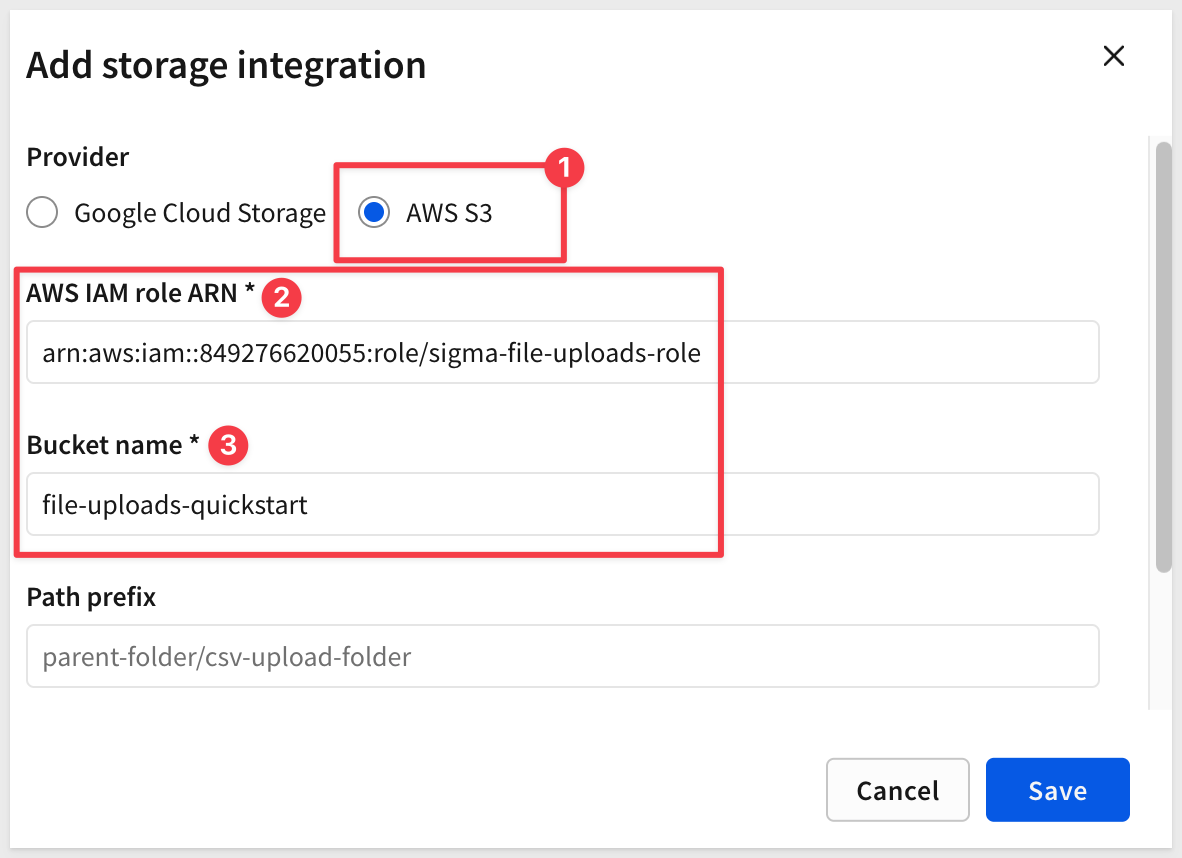
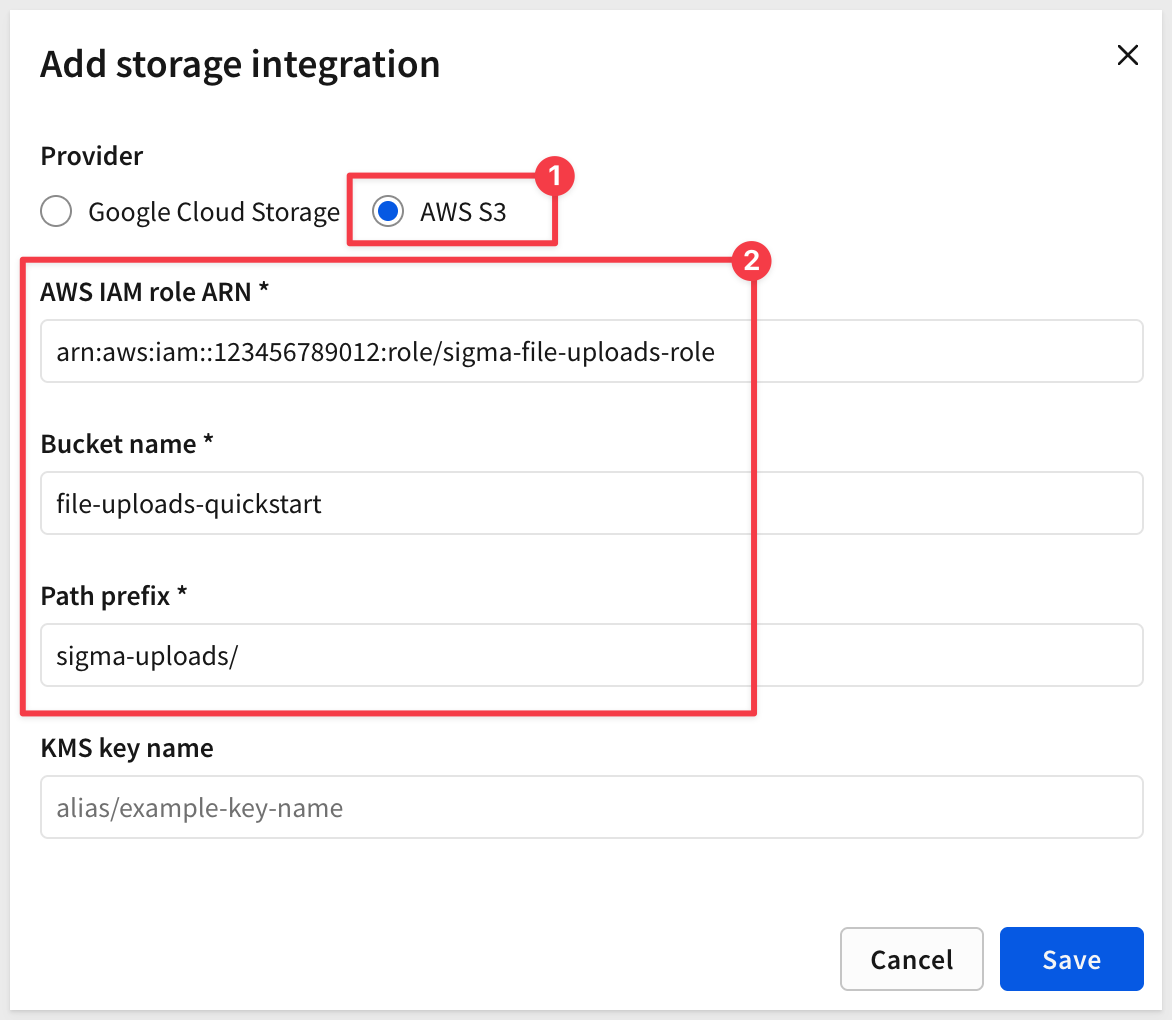
Update Multi-Modal File Analysis QS for current Sigma storage integration UI
- Path prefix field is now required (not optional)
- Rename field labels to match current UI: AWS IAM role ARN, Path prefix, KMS key name (new)
- Fix {{LLM}} control variable casing to match Control ID (Llm)
- Fix model ID inconsistency in troubleshooting section (claude-sonnet-4-5)
- Grammar and clarity fixes: punctuation, voice, sentence fragments
- Delete 12 orphaned fupl_* assets

Closes #639

diff --git a/site/sigmaguides/src/aiapps_file_uploads/aiappsfile_uploads.md b/site/sigmaguides/src/aiapps_file_uploads/aiappsfile_uploads.md
@@ -6,7 +6,7 @@ environments: web
 status: Published
 feedback link: https://github.com/sigmacomputing/sigmaquickstarts/issues
 tags: Default
-lastUpdated: 2026-02-05
+lastUpdated: 2026-07-15
 
 # Multi-Modal File Analysis with AI
 
@@ -152,7 +152,7 @@ Click `Next`.
 On the permissions page:
 - Search for and select `sigma-file-uploads-quickstart-policy` (the policy you just created)
 
-<img src="assets/fupl_06.png" width="800"/>
+<!-- <img src="assets/fupl_06.png" width="800"/> -->
 
 Click `Next`, then:
 - **Role name**: `sigma-file-uploads-role`
@@ -209,22 +209,23 @@ Log into Sigma as Administrator and navigate to `Administration` > `Account` > `
 Configure the external storage integration:
 
 - **Provider**: Select `AWS S3`
-- **AWS customer IAM role ARN**: Enter the Role ARN from your IAM role (e.g., `arn:aws:iam::123456789012:role/sigma-file-uploads-role`)
+- **AWS IAM role ARN**: Enter the Role ARN from your IAM role (e.g., `arn:aws:iam::123456789012:role/sigma-file-uploads-role`)
 - **Bucket name**: Enter your S3 bucket name (e.g., `file-uploads-quickstart`)
-- **Prefix**: (Optional) Enter a folder path if you want to isolate Sigma uploads (e.g., `sigma-uploads/`)
+- **Path prefix**: Enter a folder path to isolate Sigma uploads (e.g., `sigma-uploads/`)
+- **KMS key name**: (Optional) Enter your KMS key alias if the bucket uses server-side encryption (e.g., `alias/example-key-name`)
 
 <img src="assets/fupl_09.png" width="500"/>
 
 After entering these details, Sigma will display three values:
 - **AWS IAM user ARN**: Sigma's IAM user identity (copy this)
 - **AWS external role ARN**: Sigma's external ID for cross-account access (copy this)
-- **AWS customer IAM role ARN**: Your role ARN echoed back (already have this)
+- **AWS IAM role ARN**: Your role ARN echoed back (already have this)
 
 <aside class="negative">
 <strong>IMPORTANT:</strong><br> Copy the first two values (AWS IAM user ARN and AWS external role ARN) displayed by Sigma - you'll need them in the next step to update your IAM role's trust policy. The third value is just your role ARN being displayed back to you.
 </aside>
 
-<img src="assets/fupl_10.png" width="500"/>
+<img src="assets/fupl_10.png" width="800"/>
 
 ### Update IAM Role Trust Policy
 
@@ -285,7 +286,7 @@ For additional details, see [Configure storage integration for file upload colum
 ## Configure Snowflake Cortex AI
 Duration: 5
 
-Before setting up storage integration, you need to ensure Snowflake Cortex AI is properly configured with a vision-capable model.
+Before building the app in Sigma, ensure Snowflake Cortex AI is properly configured with a vision-capable model.
 
 ### Enable Cross-Region Inference
 
@@ -566,9 +567,9 @@ Delete the pre-populated rows:
 ### Add Row ID Column
 Add a Row ID column to uniquely identify each row in the `My files` table.
 
-Click the `+` next to the last column, choose the Sigma provided `Row ID` column type.
+Click the `+` next to the last column, choose the Sigma-provided `Row ID` column type.
 
-Rename the column to `RowID`
+Rename the column to `RowID`.
 
 <aside class="positive">
 <strong>NOTE:</strong><br> The FileID column will be populated automatically when files are uploaded via the action sequence you'll configure in a later section. It stores the actual filename in S3 (with Sigma's prefix and UUID).
@@ -634,9 +635,9 @@ Set the image size to `25 x 48` and enable `Preserve aspect ratio`:
 
 <img src="assets/fupl_24.png" width="350"/>
 
-We can test that the trash icon appears by hitting `Enter` on the `Admin` > `My files` input table.
+Test that the trash icon appears by hitting `Enter` on the `Admin` > `My files` input table.
 
-4. With the `Delete` column selected. click the **Actions** tab in the properties panel
+4. With the `Delete` column selected, click the **Actions** tab in the properties panel
 5. Click `Add action` and select `Delete row(s)`
 6. Configure the action:
    - **In**: `Your files with insight (Main)`
@@ -881,7 +882,7 @@ with mycte as
 listagg( concat('File name: ', "Name", ', Detail Description: ', "AI Detailed Description", ' ; \n' )) all_results
 from sigma_element('Your files with insight'))
 select iff({{CollectiveInquiry}} is not null,
-ai_complete({{LLM}}, concat('Answer the following inquiry', {{CollectiveInquiry}}, ' from the following: ', all_results)), 'Ask optional question above') multimodal_results from mycte
+ai_complete({{Llm}}, concat('Answer the following inquiry', {{CollectiveInquiry}}, ' from the following: ', all_results)), 'Ask optional question above') multimodal_results from mycte
 ```
 
 <aside class="positive">
@@ -889,7 +890,7 @@ ai_complete({{LLM}}, concat('Answer the following inquiry', {{CollectiveInquiry}
 • <code>sigma_element('Your files with insight')</code> - References your child table containing all uploaded files<br>
 • <code>listagg(concat(...))</code> - Concatenates all rows into one long string with file names and descriptions<br>
 • <code>{{CollectiveInquiry}}</code> - Parameter from the text input control (the user's question)<br>
-• <code>{{LLM}}</code> - Parameter from the Llm control (which AI model to use)<br>
+• <code>{{Llm}}</code> - Parameter from the Llm control (which AI model to use)<br>
 • <code>ai_complete()</code> - Snowflake Cortex function that sends the prompt to the AI and returns the answer
 </aside>
 
@@ -937,14 +938,14 @@ The application will:
 2. Automatically generate an AI Detailed Description and AI Summary
 3. Display the file and descriptions in the `Your files with insight` table
 
-<img src="assets/uploadfile.gif">
+<img src="assets/uploadfile.gif" width="800"/>
 
 ### Test Multi-Modal Inquiry
 After uploading multiple files:
 
 1. Type a question in the `CollectiveInquiry` field and press `Enter`.
 
-Examples questions:
+Example questions:
    - "What is the common theme in my files?"
    - "Compare and contrast my files"
    - "Summarize the key information across all documents"
@@ -961,7 +962,7 @@ You should now have a working multi-modal AI application that:
 - Generates intelligent descriptions of file content
 - Answers natural language questions across multiple files
 - Provides a clean, user-friendly interface for unstructured data analysis
-- Ready for final clean-up and other usability enhancements to suit
+- Ready for final clean-up and usability enhancements
 
 
 ![Footer](assets/sigma_footer.png)
@@ -1045,7 +1046,7 @@ GRANT USAGE, READ, WRITE ON STAGE QUICKSTARTS.FILE_UPLOADS.FILE_UPLOADS TO ROLE 
 ```copy-code
 USE ROLE your_sigma_role;
 SELECT SNOWFLAKE.CORTEX.AI_COMPLETE(
-  'claude-3-7-sonnet',
+  'claude-sonnet-4-5',
   'Say hello'
 ) AS result;
 ```
